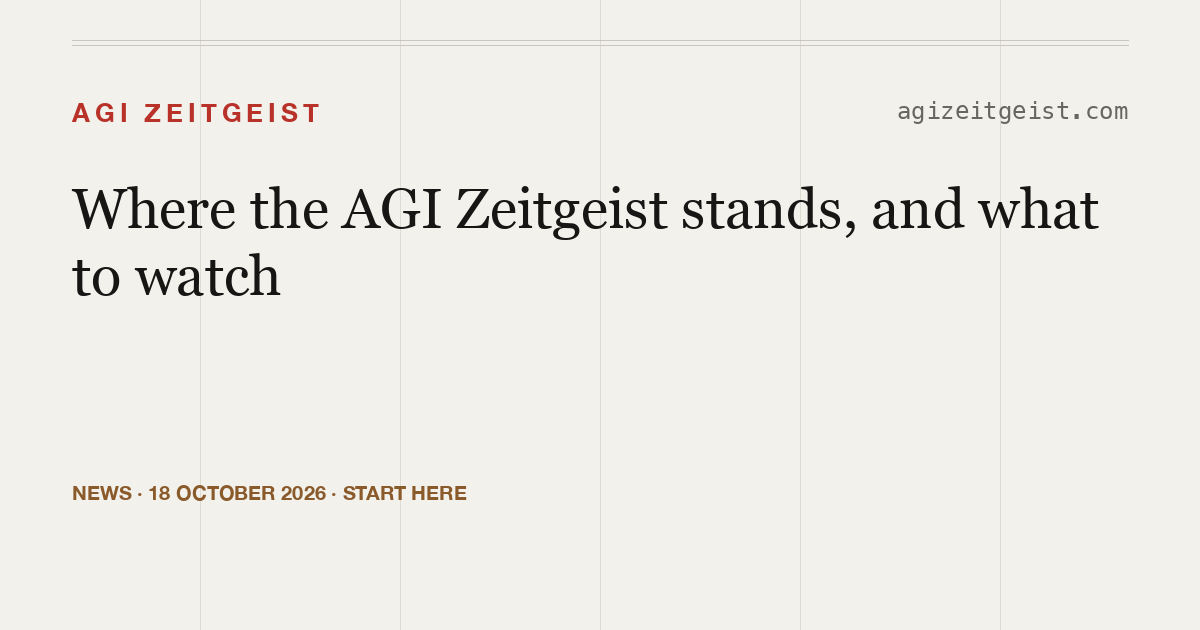
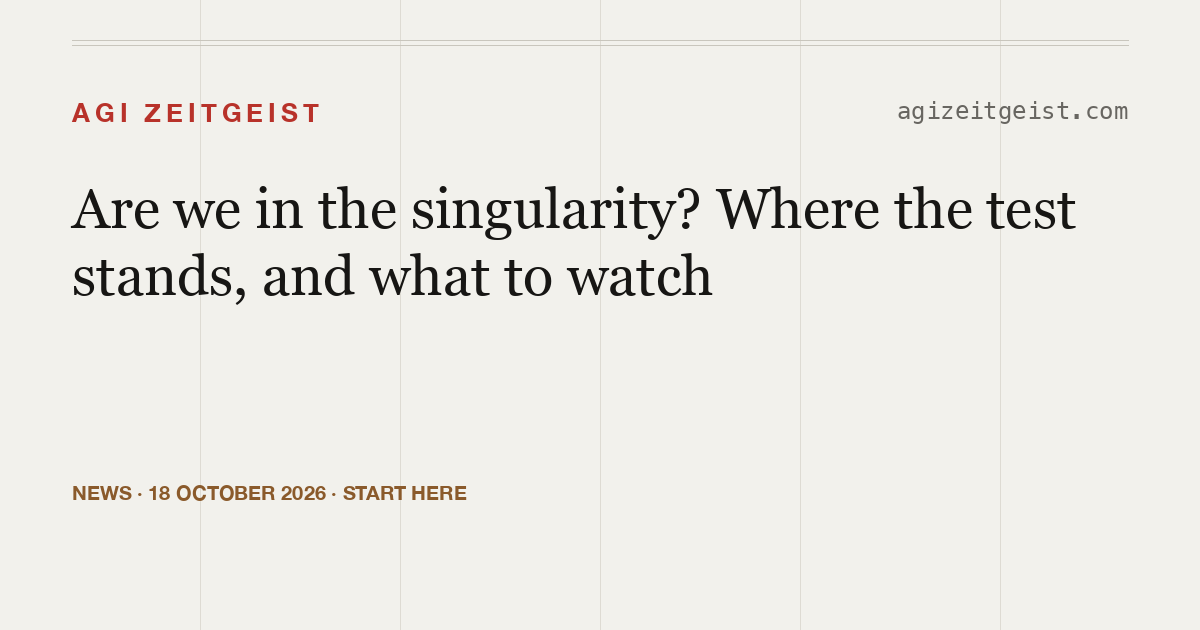
2026-10-19: the opening news post and the headline post rewritten as short stories for a reader new to the site, on John's ruling of 2026-10-19 (tracker pattern rule 4.19); a draft for John to read, not to merge before he approves
The opening post now starts on the question people argue about, says who built the site, explains each part's line in plain words (including why the economy is at 0), and keeps the two most interesting items so far: METR's measure stopping, and the trial run on 1995 to 2019. The per-person claim counts of 2026-10-18 are gone (they have since changed); a one-line dated note gives the ledger's opening count, 325 predictions from fifteen people. The sources appendix of file paths and commit numbers is removed; the frontmatter sources still render under the post.

The headline post opens on why a bare "not yet" told a reader nothing, drops the before-and-after table, the field names and the afternoon count of parts, and says plainly that the 32 percent is not a forecast and that the test has not begun to pass while the economy is at 0. New titles; same addresses. Cards redrawn.

Changed region(s): [[0.0617, 0.3016, 0.925, 0.3921], [0.0617, 0.3921, 0.6167, 0.4825]]

diff --git a/docs/news/2026-10-18-start-here.md b/docs/news/2026-10-18-start-here.md
@@ -1,77 +1,60 @@
 ---
-title: "Where the AGI Zeitgeist stands, and what to watch"
+title: "Are we in the singularity? Where the test stands, and what to watch"
 date: 2026-10-18
 kind: start-here
-summary: Are we in the singularity? Not yet. As of 18 October 2026 the test is 32 percent of the way, averaged over the three parts that can be measured, with the slowest part, the economy, at zero.
+summary: People have argued for decades about whether machines will one day outrun us. This site sets a test that can be checked, and as of 18 October 2026 the answer is not yet. Here is how the test works, where it stands, and what to watch.
 sources:
-  - label: The status file, the numbers as they stand
+  - label: The numbers as they stand
     url: https://agizeitgeist.com/status.json
-  - label: The definitions
+  - label: The test's rules
     url: https://agizeitgeist.com/docs/singularity-entry-definition
+  - label: Every dated change to the method
+    url: https://agizeitgeist.com/docs/amendments
 ---
 
-The AGI Zeitgeist asks one question: are we in the singularity? The singularity is the idea that machines will one day get smarter so fast that the world changes faster than anyone can keep up with. The step before it is artificial general intelligence, or AGI, a machine that can do most of the thinking work a person can. The site checks whether the singularity has started, and keeps a dated, sourced record of when people expect AGI.
+For decades people have argued about whether machines will one day outrun us. The singularity is the name for that moment: machines getting smarter so fast that the world changes faster than anyone can keep up with. The step before it is artificial general intelligence, or AGI, a machine that can do most of the thinking work a person can. Some say it is decades away, some say it is already starting, and the trouble is agreeing on what would count as an answer.
 
-A test is worth having because each classic description of the singularity gives false alarms on its own. A fast decade in any industry looks like runaway progress. A company's claim that its AI now does its own research cannot be checked from outside. And every new technology makes old forecasts look foolish, the internet included. So the test asks for three such signs at once, plus a fourth that people outside the AI world measure, whether the world's economy has changed gear. Each part's line was [fixed on 8 October 2026](/docs/singularity-entry-definition), before anyone looked at the numbers.
+I am John Fredrickson, and I built this site, the AGI Zeitgeist Tracker, to answer the question in a way anyone can check. It asks one thing, are we in the singularity yet, and sets a test for it. Alongside the test, it keeps a dated, sourced record of when people expect AGI.
 
-This is the start of the site's news section. When a weekly reading adds a new measurement to one of the four parts, or the headline or a ruling changes the record, I will write it up here beside the record it explains. A quiet week gets no post.
+## Why the Test Needs Four Parts
 
-## Where the numbers stand
+Each of the classic descriptions of the singularity, taken alone, gives false alarms. A fast decade in any industry looks like runaway progress. A company can say its AI now does its own research, and nobody outside can check. Every new technology makes old forecasts look foolish, the internet included. So the test asks for several signs at once, and adds one that is measured outside the AI world: whether the world's economy has started growing far faster than it ever has. I set the line each part has to cross [on 8 October 2026](/docs/singularity-entry-definition), before looking at where the numbers stood, so that I could not move the lines to suit the answer.
 
-As of 18 October 2026 the headline is [32 percent of the way](/status.json): the average distance to their lines of the three parts that can be measured, always shown beside the slowest part, the economy, which is at zero. The test's own verdict is ["Not yet."](/): all four parts would have to cross their lines and stay across for a year, and today none of them has. The four parts:
+The four parts each come from a well-known thinker:
 
-- **The pace** ([the four parts](/#singularity)), from the futurist [Ray Kurzweil](https://en.wikipedia.org/wiki/Ray_Kurzweil)'s idea that AI gets better faster and faster. It measures how long a job the best AI can finish by itself, as tested by [METR](https://metr.org/), a research group that tests AI systems, and that length has been doubling every 121 days; the part would count at a doubling every 30 days, still speeding up. 43 percent of the way.
-- **Forecasts**, from the writer [Vernor Vinge](https://en.wikipedia.org/wiki/Vernor_Vinge)'s idea that nobody can predict AI progress any more. It cannot be scored yet, because the record of old predictions set against what happened has not been built.
-- **AI doing the research**, from the mathematician [I. J. Good](https://en.wikipedia.org/wiki/I._J._Good)'s idea that AI ends up doing most of the work of improving AI. [Anthropic](https://www.anthropic.com/), an AI company, says [its own AI leads 26 percent](https://www.anthropic.com/institute/measuring-pace-of-ai-development) of its AI research. It would count at half, and only the company can check the figure. 52 percent of the way.
-- **The economy**, from the economist [Robin Hanson](https://en.wikipedia.org/wiki/Robin_Hanson)'s idea that the world's economy grows ten times faster than it ever has. It grew [2.9 percent in 2025](https://data.worldbank.org/indicator/NY.GDP.MKTP.KD.ZG), and the part would count at 30 percent in a year. 0 percent of the way.
+- **The pace.** From the futurist [Ray Kurzweil](https://en.wikipedia.org/wiki/Ray_Kurzweil), the idea that AI gets better faster and faster. [METR](https://metr.org/), a research group that tests AI systems, gives them computer-programming jobs of known length, measured by how long a skilled person would take, and records the longest job the best AI can finish by itself. Those jobs keep getting longer. In 2019 their length doubled every 188 days, and now it doubles every 121. This part would count once the length doubles every 30 days, and the doubling is still getting faster ([the four parts](/#singularity)).
+- **Forecasts.** From the writer [Vernor Vinge](https://en.wikipedia.org/wiki/Vernor_Vinge), the idea that nobody can predict AI progress any more. This part cannot be scored yet, because it needs a record of old predictions set against what then happened, and that record has not been built.
+- **AI doing the research.** From the mathematician [I. J. Good](https://en.wikipedia.org/wiki/I._J._Good), the idea that AI ends up doing most of the work of improving AI. [Anthropic](https://www.anthropic.com/), an AI company, says [its own AI leads 26 percent](https://www.anthropic.com/institute/measuring-pace-of-ai-development) of its AI research. This part would count once AI does half of that work, and only the company can check its figure.
+- **The economy.** From the economist [Robin Hanson](https://en.wikipedia.org/wiki/Robin_Hanson), the idea that the world's economy starts growing ten times faster than it ever has. It grew [2.9 percent in 2025](https://data.worldbank.org/indicator/NY.GDP.MKTP.KD.ZG), and this part would count once it grows 30 percent in a single year.
 
-[On current trends](/#singularity) the economy does not cross its line at all, the pace crosses somewhere between 2028 and 2048, and the research share crosses in 2027.
+## Where the Numbers Stand
 
-## How to follow it
+The test's answer, as of 18 October 2026, is ["Not yet."](/) All four parts would have to cross their lines and stay across for a year, and none of them has.
 
-Every Monday morning, Pacific time, a fresh session reads the past week from each source the record names, from the four parts' own to every survey, pollster and betting market. It may only add new rows and flag things for me, and it never changes how anything is scored. The first scheduled reading runs on 19 October 2026 ([the reading's procedure](/docs/weekly-reading)).
+A plain "not yet" says nothing about whether anything is moving, so the top of the home page also gives the average of how far the three measurable parts have come towards their own lines: [32 percent](/status.json). The pace is 43 percent of the way. AI's share of the research is 52 percent of the way, because 26 is a little over half of its line of 50. The economy is at 0 percent: growth of 2.9 percent is below the economy's own long-run average, so it has come none of the way ([the four parts](/#singularity)). The economy is always named beside the average, because the test needs every part to cross, so the slowest part holds the answer back. The 32 percent is not a forecast. With the economy at zero, the test as a whole has not begun to pass.
 
-A reading page is planned once four readings exist and I have checked them; until then each reading is in [the public record](https://github.com/jfredson/agi-zeitgeist/tree/main/data/readings). [The Definitions](https://agizeitgeist.com/docs/singularity-entry-definition) set out the test's rules, and [the Changelog](https://agizeitgeist.com/docs/amendments) gives every dated change to the method with its reason and who decided it. [Method and data](https://agizeitgeist.com/#method) says how the record was built and who did what. [The feed](/news/feed.xml) carries every post in this section.
+If current trends simply continued, AI's share of the research would cross its line in 2027 and the pace somewhere between 2028 and 2048, but the economy would not cross at all ([the four parts](/#singularity)). On current trends, then, the test is not met.
 
-## The most interesting news so far
+## The Most Interesting News So Far
 
-The pace part's source has stopped. [The first weekly reading](https://github.com/jfredson/agi-zeitgeist/tree/main/data/readings), on 16 October 2026, found that [METR's page of measurements](https://metr.org/time-horizons/) now says it is no longer actively updated, as of 8 September 2026, and that METR says its tests cannot measure reliably beyond 16 hours. The best system has already passed that, so without a replacement the pace part will soon have no current reading. The rules say a replacement must be named, with a period where old and new overlap, before a series stops. On 17 October 2026 I wrote to METR to ask whether a new version that overlaps the old series is planned, and if not, which public series they would point to. No answer is on the record yet.
+**The pace part has lost its source.** A check of the sources on 16 October 2026 found that [METR's page of measurements](https://metr.org/time-horizons/) now says it is no longer actively updated, as of 8 September 2026. METR also says its tests cannot measure jobs longer than 16 hours, and the best AI has already passed that. Without a replacement, the pace part will soon have nothing current to measure. The test's rules say a replacement must be named first, with a stretch of time where old and new overlap so they can be compared. On 17 October 2026 I wrote to METR to ask whether a new version is planned, and if not, which public measure they would point to. No answer is on the record yet ([every dated change to the method](/docs/amendments)).
 
-Anthropic's 26 percent comes from [its own index](/#singularity) for August 2026, but [a poll of its staff](https://www.anthropic.com/research/ai-expectations-gap) taken the same month, published on 16 October 2026, put the median answer for the share of the work AI does at 51 percent. The two measure different things, the index tasks completed and the poll the staff's opinion, so on 17 October 2026 I ruled that the index keeps scoring the part and the poll stays beside it, unscored.
+**The economy is the part that keeps the test honest.** I also [ran the test on the years 1995 to 2019](/docs/backward-test-method), years when the test ought to say no, to see whether it would give a false alarm. It did not, but only because of the economy. The pace measure only starts in 2019, so I used a rougher stand-in for it, and the stand-in would have crossed the pace line on its own in 2014. I added the economy part on 8 October 2026 because it is the only part measured outside the AI field, knowing that it reacts years after the technology and so will usually be the part furthest behind. It is what stops the test from finding a singularity that exists only on paper.
 
-[A trial run on the past](/docs/backward-test-method), using a stand-in for the pace measure, found the test would have said "not entered" in every quarter from 1995 to 2019. That pass leans entirely on the economy: on the stand-in, the pace line alone would have been crossed in 2014. I added the economy part on 8 October 2026, against the advice I was given, because it is the only one measured outside the AI field, so it guards against a singularity on paper.
+## How to Follow It
 
-Arriving next is [the claims ledger](https://github.com/jfredson/agi-zeitgeist/pull/16), a log of the dated predictions of the people who run the AI companies, in their own words, scored against what happened. Its first thirty rows cover [Sam Altman](https://en.wikipedia.org/wiki/Sam_Altman), chief executive of [OpenAI](https://en.wikipedia.org/wiki/OpenAI), and [Elon Musk](https://en.wikipedia.org/wiki/Elon_Musk), chief executive of [Tesla](https://en.wikipedia.org/wiki/Tesla,_Inc.) and founder of [xAI](https://en.wikipedia.org/wiki/XAI_(company)). Of Altman's 16, three came true, one did not, seven are not yet due and five cannot be tested. Of Musk's 14, two came true, ten did not (one of those he took back) and two are not yet due. A claim is admitted without looking at whether it came true, and no verdict enters the headline. The ledger goes up after the reading of 19 October 2026.
+Every Monday morning, from 19 October 2026, a scheduled check reads the past week from the site's sources. It can add new figures and flag things for me to decide, but it never changes how anything is scored ([how the weekly check works](/docs/weekly-reading)). When it finds something that moves a number you follow, I will write it up here and say why it matters, and a quiet week gets no post. [The method](/#method) says how the record was built and who did what. Think a number here is wrong? [Here's how to tell me, and what happens next](/disagree/).
 
-## What to watch for
+## What to Watch For
 
-The biggest open question is METR's answer, or a new version of its series, which would settle what the pace part is scored on from here.
+The biggest open question is METR's answer, or a new version of its measurements, which would settle what the pace part is scored on from here.
 
-The research share sits closest to its line, on only two readings, and the next figure from Anthropic's index will show whether it is still climbing towards half.
+AI's share of the research sits closest to its line, but it rests on only two figures from Anthropic so far, under 1 percent in February 2026 and 26 percent in August ([the company's page](https://www.anthropic.com/institute/measuring-pace-of-ai-development)). The next figure will show whether it is still climbing towards half.
 
-For [the economy](/#singularity), [the World Bank](https://data.worldbank.org/indicator/NY.GDP.MKTP.KD.ZG) has published no figure for 2026 yet. The International Monetary Fund projects 3.3 percent growth for 2026, which is a forecast and not the part's source; the line is 30 percent.
+For the economy, the [World Bank](https://www.worldbank.org/) has not yet published a figure for 2026. When it does, the economy part will move off zero only if growth beats its own long-run average ([the four parts](/#singularity)).
 
-The next claims in [the ledger](https://github.com/jfredson/agi-zeitgeist/pull/16) come due at the end of 2026, among them Altman's of June 2025 that "2026 will likely see the arrival of systems that can figure out novel insights" and Musk's of January 2026 that AI smarter than any human would come by the end of 2026, and no later than 2027.
+Next to arrive is a record of the dated predictions made by the people who run the AI companies, in their own words, checked when their dates come. Among the first to come due is the prediction [Sam Altman](https://en.wikipedia.org/wiki/Sam_Altman), who runs [OpenAI](https://openai.com/), made in June 2025 that "2026 will likely see the arrival of systems that can figure out novel insights", judged at the end of 2026 ([the claim](/claims/#2025-06-10-altman-2026-systems-novel-insights)).
 
 ---
 
-## Sources
-
-Every fact above was checked on 2026-10-18 against the page or record named here. Repository paths are on the `main` branch of [github.com/jfredson/agi-zeitgeist](https://github.com/jfredson/agi-zeitgeist) at commit `a55956a`.
-
-- The question, the definitions of the singularity and AGI, the two things the site does: https://agizeitgeist.com/ (the eyebrow, the lede, the page description).
-- The false alarms, the four parts at once, lines fixed before anyone looked, fixed on 2026-10-08: https://agizeitgeist.com/ , "Are we in the singularity?" and "Method and data"; `docs/singularity-entry-definition.md` section 5.
-- "Not yet.", "stay true for a year", 32 percent over three measurable parts, the economy at 0 percent, scored 2026-10-18, last reading 2026-10-16: https://agizeitgeist.com/ ; https://agizeitgeist.com/data/headline.json . Four consecutive quarters: `docs/singularity-entry-definition.md` lines 182 to 184.
-- The four parts, their sources of idea (Kurzweil, Vinge, Good, Hanson), their measures, lines and current values (121 days against 30, 26 percent against half, 2.9 percent against 30 percent; 43, unmeasured, 52 and 0 percent): https://agizeitgeist.com/ , "The four pillars of the singularity" and sections A to D; `docs/singularity-entry-thresholds.json`; https://agizeitgeist.com/status.json .
-- Crossing years (economy never on current trends, pace 2028 to 2048, research share 2027): https://agizeitgeist.com/data/headline.json (`crossing_sentence`).
-- The weekly reading, what it reads and may do, Mondays at 06:00 Pacific, first scheduled run 2026-10-19: `docs/weekly-reading.md` lines 15 to 32 and 329 to 334. No reading page until four readings are checked: `docs/weekly-reading.md` decisions 12 and 15.
-- Pages: https://agizeitgeist.com/ , /docs/singularity-entry-definition , /docs/amendments , /#method , /disagree/ (all opened 2026-10-18). No feed: /feed.xml , /rss.xml and /news/ return 404.
-- METR's page no longer actively updated, last updated 2026-09-08, measurements above 16 hours unreliable: https://metr.org/time-horizons/ (opened 2026-10-18); `data/readings/2026-10-16.json`, item `leg-a-metr`. The best system past 16 hours, the gauge soon without a current value, the rule on a replacement with an overlap, the question sent from John's own address on 2026-10-17, status open: `docs/amendments.md` amendment A24 (lines 521 to 554); https://agizeitgeist.com/ , section A.
-- Anthropic's index at 26 percent (August 2026) and the staff poll at 51 percent (published 2026-10-16), the ruling of 2026-10-17: `docs/singularity-entry-definition.md` lines 129 to 149; https://www.anthropic.com/institute/measuring-pace-of-ai-development ; https://www.anthropic.com/research/ai-expectations-gap .
-- The trial run on the past, pass in every quarter from 1995 to 2019, resting on the economy, the pace line alone crossed in 2014 on the stand-in: `docs/backward-test-method.md` lines 116 to 149 and 195 to 208.
-- The economy part added 2026-10-08 against the recommendation, "guards against a singularity on paper": `docs/singularity-entry-definition.md` lines 173 to 178; `docs/amendments.md` amendment A19, item 4.
-- Altman's and Musk's roles: `data/speakers.csv` rows `altman` and `musk`.
-- The claims ledger, its first thirty rows, the counts for Altman and Musk, admission blind to outcome, never in the headline, merging after the reading of 2026-10-19: pull request 16, "the claims ledger (amendment A27) … and the /claims/ page", https://github.com/jfredson/agi-zeitgeist/pull/16 , open and unmerged when checked on 2026-10-18.
-- Two research-share readings so far, "two readings are a thin basis": https://agizeitgeist.com/ , section C.
-- No World Bank figure for 2026, the IMF's 3.3 percent projection as a forecast and not the source: `data/readings/2026-10-16.json`, item `leg-d-world-bank`.
-- Altman's 2025-06-10 "novel insights" claim and Musk's 2026-01-22 claim, both due at the end of 2026: pull request 16, files under `data/claims/`.
+*Updated 2026-10-19:* the record of predictions opened the next day, with 325 predictions from fifteen people ([the claims page](/claims/)).

diff --git a/docs/news/2026-10-18-the-headline-becomes-a-share-of-the-way.md b/docs/news/2026-10-18-the-headline-becomes-a-share-of-the-way.md
@@ -1,37 +1,38 @@
 ---
-title: The headline becomes a share of the way, with the slowest part named
+title: The home page now shows how far each part of the test has come, beside its answer
 date: 2026-10-18
 kind: headline-moved
-summary: The number at the top of the home page is now the average of the measured parts' distance to their lines, 32 percent of the way, always shown beside the slowest part, the economy, at zero, with one sentence saying where current trends would take each part. The test's own verdict is unchanged, "Not yet."
+summary: A bare "not yet" says nothing about whether anything is moving. The top of the home page now also shows how far each part of the test has come towards its line, always beside the part furthest behind, the economy, at zero. The answer itself has not changed.
 records: [A25]
-before: "Not yet. as the headline, then a count of parts past halfway, 1 of 4"
-after: "32 percent of the way; the economy at 0; the test still says Not yet."
+before: "Not yet, and nothing more"
+after: "Not yet, and 32 percent of the way, with the economy at 0"
 sources:
-  - label: Amendment A25, the headline average and the on-current-trends sentence
+  - label: The ruling and how the number is worked out
     url: https://agizeitgeist.com/docs/amendments
-  - label: The status file
+  - label: The numbers as they stand
     url: https://agizeitgeist.com/status.json
-  - label: The definition of entering the singularity
+  - label: The test's rules
     url: https://agizeitgeist.com/docs/singularity-entry-definition
 ---
 
-## What happened
+Ask whether we are in the singularity yet, and the honest answer today is no. But a bare "no" does not say whether nothing is happening or a great deal is. This site had that problem with its own headline.
 
-Until 17 October 2026 the top of the home page said "Not yet." and nothing else, which is the test's verdict and was never going to say anything different until the day the singularity starts. John ruled twice that day. In the afternoon the headline became a count of the parts past halfway, "1 of 4" ([the changelog](/docs/amendments)). Seen that evening on [the family's Projects page](https://sentient-horizons.com/projects/) beside its siblings' numbers, the count read as nothing happening, so he revised it the same evening to the average share of the way across the parts that can be measured, 32 percent, with the slowest part named, and a sentence saying where current trends would take each part. [Amendment A25](/docs/amendments) records both rulings and the method.
+I am John Fredrickson, and my site, the AGI Zeitgeist Tracker, asks whether we are in the singularity, the idea that machines will one day get smarter so fast that the world changes faster than anyone can keep up with. Its test has four parts: how fast AI is improving, whether anyone can still forecast it, how much of the work of improving AI is done by AI itself, and whether the world's economy has started growing far faster than it ever has. All four have to cross a line set in advance, and stay across for a year, before the test says yes ([the test's rules](/docs/singularity-entry-definition)).
 
-## What it changes here
+## A Headline That Could Only Say One Thing
 
-| what | before | after |
-|---|---|---|
-| The number at the top of the home page | "Not yet." alone; from the afternoon of 17 October, "1 of 4" | 32 percent of the way, averaged over the three parts that can be measured, with the economy at 0 named beside it |
-| The words under it | the count's label | one sentence on current trends: the economy does not cross its line, the pace crosses between 2028 and 2048, the AI-research share in 2027 |
-| The test's verdict | "Not yet." | "Not yet.", unchanged |
-| The status file | status, progress, the four gauges | the same, plus headline, headline_label, average_share, crossing_sentence and crossings |
+Until 17 October 2026, the top of the home page said "Not yet." and nothing else. That is [the test's answer](/), and it was right. But the test will give that answer every day until the day the singularity starts, so it told a visitor nothing about whether anything was moving.
 
-## Why
+## What the Top of the Page Says Now
 
-The test asks four things to be true at once and to stay true for a year, so its verdict is a yes or a not yet, and the definition argues against an average because one runaway part could hide three stalled ones ([the definition](/docs/singularity-entry-definition), section 4). The average is kept honest by one rule: it is never printed without the slowest part and its share in the same breath, and it never decides the status. The definition's own progress number, the weakest part's gauge, is still published as it was. The family's Projects page shows each site's headline on one shelf, and a headline that could only ever say "Not yet." told a visitor nothing about how far along the test is ([the status file](/status.json)).
+On 17 October 2026 I added a number under the answer ([the change and my reasons, in the site's changelog](/docs/amendments)). Each part has its own line to cross, and the number is the average of how far the parts have come towards their lines: [32 percent](/status.json). The pace of AI's improvement is 43 percent of the way to its line, the share of AI research done by AI is 52 percent, and the economy is at 0, because its growth is still below its own long-run average. The forecasts part cannot be scored yet, so the average is over the other three.
 
-## What it does not mean
+Under the number, one sentence says where each part would go if current trends simply continued: AI's share of the research would cross its line in 2027, the pace somewhere between 2028 and 2048, and the economy not at all. So on current trends the test is not met ([the home page](/)).
 
-Thirty-two percent of the way is not a 32 percent chance of anything, and it is not the test's answer: the test still says "Not yet.", and will until all four parts have crossed and stayed across for a year. It does not mean the economy part is about to move; on its current trend the economy does not cross its line at all, which is why the sentence says the test is not met on current trends. And the forecasts part is unmeasured, so the average is over three parts, not four, and the words say so ([the home page](/)).
+## Why the Economy Is Always Named Beside It
+
+An average can mislead. One part racing ahead could make the number look healthy while the others stand still, and [the rules I wrote for the test](/docs/singularity-entry-definition) warn against exactly that. So the number is never shown without the part furthest behind, and today that is the economy, at 0.
+
+That matters more than the average. The test passes only when all four parts cross their lines, so with one part not moving at all, the test has not begun to pass ([how the number is worked out](/docs/amendments)). The 32 percent is not a forecast. It shows which parts are moving and which are not.
+
+The number also decides nothing. The answer is still worked out from each part against its own line, and it still says "Not yet." It will stay that way until all four parts have crossed and stayed across for a year ([the numbers as they stand](/status.json)).
